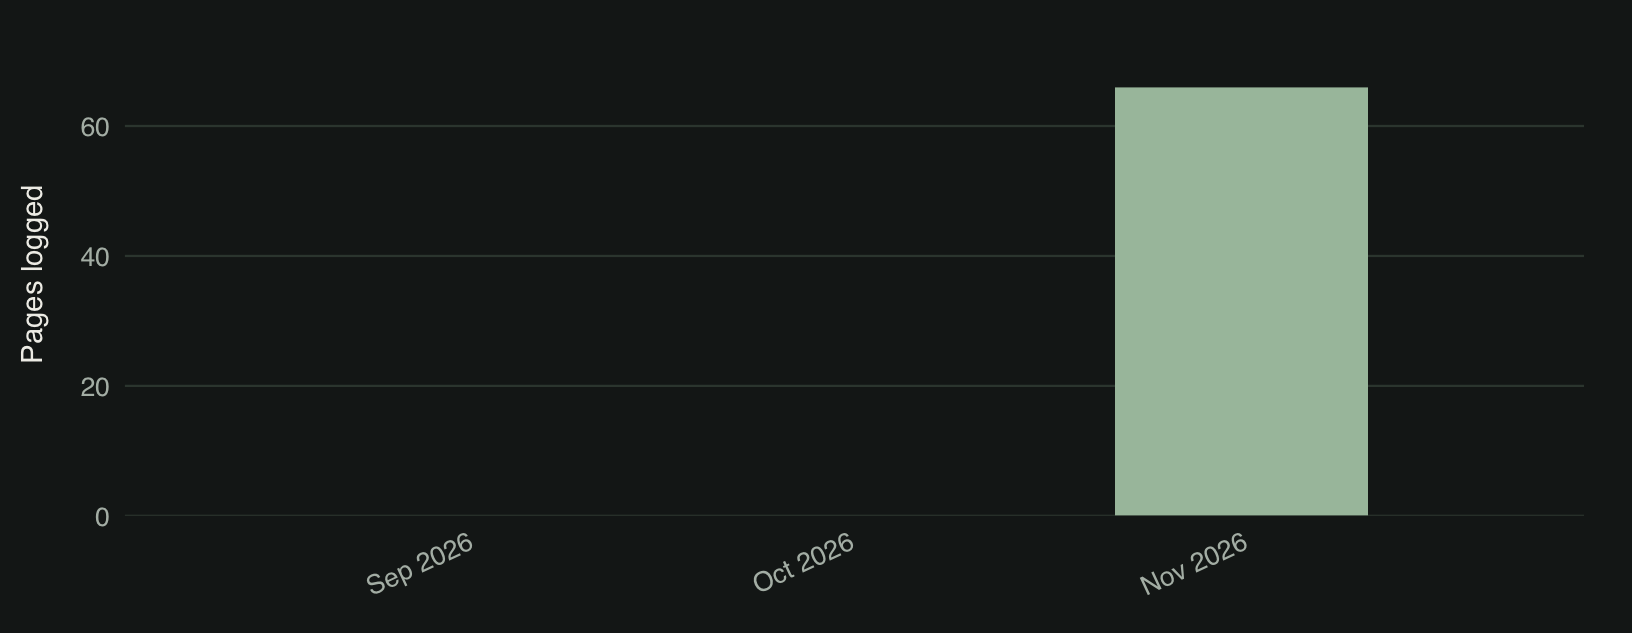
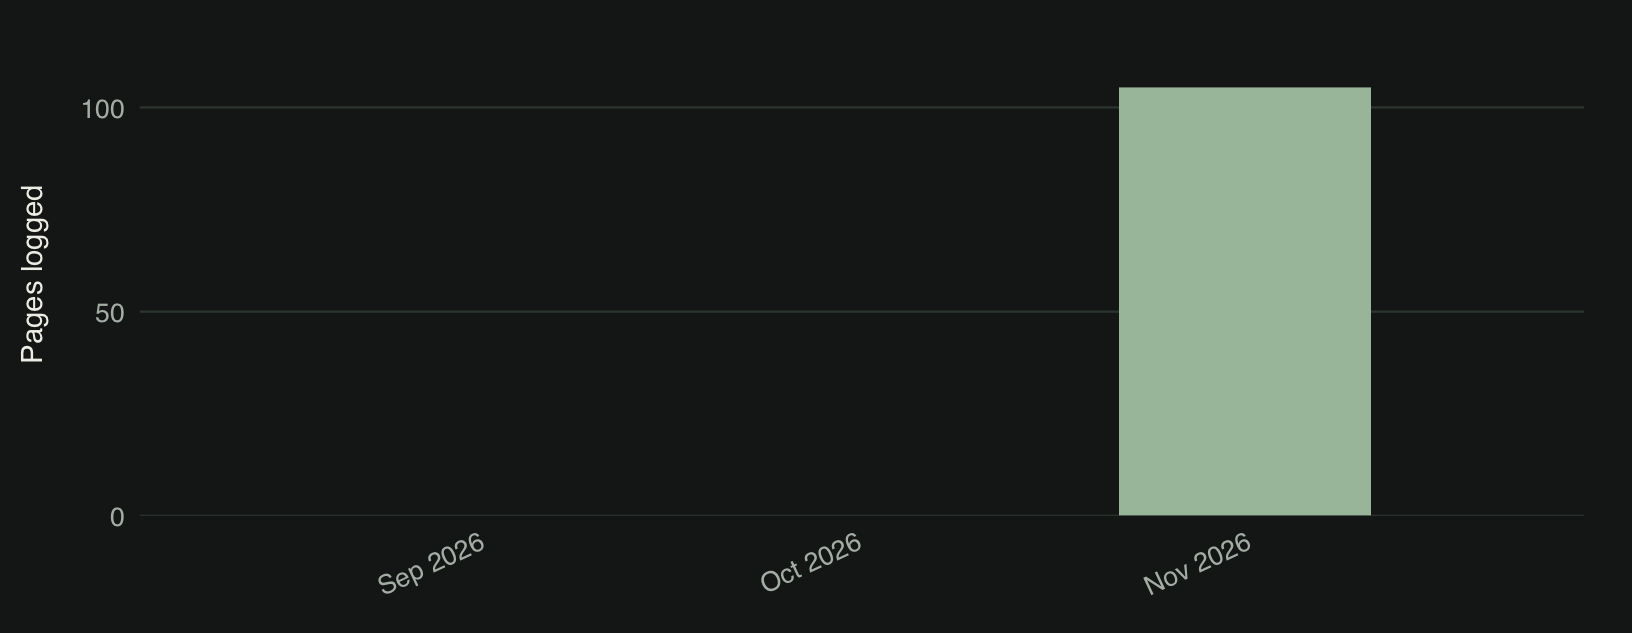
Built site for gh-pages

diff --git a/library.html b/library.html
@@ -339,8 +339,8 @@ ul.task-list li input[type="checkbox"] {
 <div class="library-page">
 <div class="cell">
 <div class="cell-output-display">
-<div class="datatables html-widget html-fill-item" id="htmlwidget-225f69845c2d07610bb4" style="width:100%;height:auto;"></div>
-<script type="application/json" data-for="htmlwidget-225f69845c2d07610bb4">{"x":{"filter":"none","vertical":false,"data":[["<a href=\"books/lavalee-des-avales.html\" class=\"library-book-link\">\n  <img src=\"https://covers.openlibrary.org/b/id/967591-M.jpg\" alt=\"Cover of L&#39;avalée des avalés\" class=\"library-cover\" loading=\"lazy\"/>\n  <span class=\"library-book-title\">L'avalée des avalés<\/span>\n<\/a>","<a href=\"books/volkswagen-blues.html\" class=\"library-book-link\">\n  <img src=\"https://covers.openlibrary.org/b/id/10820587-M.jpg\" alt=\"Cover of Volkswagen Blues\" class=\"library-cover\" loading=\"lazy\"/>\n  <span class=\"library-book-title\">Volkswagen Blues<\/span>\n<\/a>","<a href=\"books/B004.html\" class=\"library-book-link\">\n  <img src=\"https://covers.openlibrary.org/b/id/452472-M.jpg\" alt=\"Cover of The Argumentative Indian: Writings on Indian History, Culture and Identity\" class=\"library-cover\" loading=\"lazy\"/>\n  <span class=\"library-book-title\">The Argumentative Indian: Writings on Indian History, Culture and Identity<\/span>\n<\/a>","<a href=\"books/B003.html\" class=\"library-book-link\">\n  <img src=\"https://covers.openlibrary.org/b/id/6601656-M.jpg\" alt=\"Cover of Silence\" class=\"library-cover\" loading=\"lazy\"/>\n  <span class=\"library-book-title\">Silence<\/span>\n<\/a>"],["Réjean Ducharme","Jacques Poulin","Amartya Sen","Shūsaku Endō"],[343,221,432,256],["<span class=\"library-status library-status--reading\">Reading<\/span>","<span class=\"library-status library-status--finished\">Finished<\/span>","<span class=\"library-status library-status--finished\">Finished<\/span>","<span class=\"library-status library-status--finished\">Finished<\/span>"],["2026-11-19","2026-10-30","2026-09-26","2026-09-12"],["—","2026-11-18","2026-10-28","2026-09-25"]],"container":"<table class=\"hover\">\n  <thead>\n    <tr>\n      <th>Book<\/th>\n      <th>Author<\/th>\n      <th>Pages<\/th>\n      <th>Status<\/th>\n      <th>Date Started<\/th>\n      <th>Date Finished<\/th>\n    <\/tr>\n  <\/thead>\n<\/table>","options":{"pageLength":10,"lengthChange":false,"order":[],"autoWidth":false,"scrollX":true,"language":{"search":"Search books:","emptyTable":"No books recorded yet."},"columnDefs":[{"className":"dt-right","targets":2},{"name":"Book","targets":0},{"name":"Author","targets":1},{"name":"Pages","targets":2},{"name":"Status","targets":3},{"name":"Date Started","targets":4},{"name":"Date Finished","targets":5}],"orderClasses":false}},"evals":[],"jsHooks":[]}</script>
+<div class="datatables html-widget html-fill-item" id="htmlwidget-4500c34a9f6a281d1857" style="width:100%;height:auto;"></div>
+<script type="application/json" data-for="htmlwidget-4500c34a9f6a281d1857">{"x":{"filter":"none","vertical":false,"data":[["<a href=\"books/lavalee-des-avales.html\" class=\"library-book-link\">\n  <img src=\"https://covers.openlibrary.org/b/id/967591-M.jpg\" alt=\"Cover of L&#39;avalée des avalés\" class=\"library-cover\" loading=\"lazy\"/>\n  <span class=\"library-book-title\">L'avalée des avalés<\/span>\n<\/a>","<a href=\"books/volkswagen-blues.html\" class=\"library-book-link\">\n  <img src=\"https://covers.openlibrary.org/b/id/10820587-M.jpg\" alt=\"Cover of Volkswagen Blues\" class=\"library-cover\" loading=\"lazy\"/>\n  <span class=\"library-book-title\">Volkswagen Blues<\/span>\n<\/a>","<a href=\"books/B004.html\" class=\"library-book-link\">\n  <img src=\"https://covers.openlibrary.org/b/id/452472-M.jpg\" alt=\"Cover of The Argumentative Indian: Writings on Indian History, Culture and Identity\" class=\"library-cover\" loading=\"lazy\"/>\n  <span class=\"library-book-title\">The Argumentative Indian: Writings on Indian History, Culture and Identity<\/span>\n<\/a>","<a href=\"books/B003.html\" class=\"library-book-link\">\n  <img src=\"https://covers.openlibrary.org/b/id/6601656-M.jpg\" alt=\"Cover of Silence\" class=\"library-cover\" loading=\"lazy\"/>\n  <span class=\"library-book-title\">Silence<\/span>\n<\/a>"],["Réjean Ducharme","Jacques Poulin","Amartya Sen","Shūsaku Endō"],[343,221,432,256],["<span class=\"library-status library-status--reading\">Reading<\/span>","<span class=\"library-status library-status--finished\">Finished<\/span>","<span class=\"library-status library-status--finished\">Finished<\/span>","<span class=\"library-status library-status--finished\">Finished<\/span>"],["2026-11-19","2026-10-30","2026-09-26","2026-09-12"],["—","2026-11-18","2026-10-28","2026-09-25"]],"container":"<table class=\"hover\">\n  <thead>\n    <tr>\n      <th>Book<\/th>\n      <th>Author<\/th>\n      <th>Pages<\/th>\n      <th>Status<\/th>\n      <th>Date Started<\/th>\n      <th>Date Finished<\/th>\n    <\/tr>\n  <\/thead>\n<\/table>","options":{"pageLength":10,"lengthChange":false,"order":[],"autoWidth":false,"scrollX":true,"language":{"search":"Search books:","emptyTable":"No books recorded yet."},"columnDefs":[{"className":"dt-right","targets":2},{"name":"Book","targets":0},{"name":"Author","targets":1},{"name":"Pages","targets":2},{"name":"Status","targets":3},{"name":"Date Started","targets":4},{"name":"Date Finished","targets":5}],"orderClasses":false}},"evals":[],"jsHooks":[]}</script>
 </div>
 </div>
 </div>
@@ -351,8 +351,8 @@ ul.task-list li input[type="checkbox"] {
 <div class="library-page">
 <div class="cell">
 <div class="cell-output-display">
-<div class="datatables html-widget html-fill-item" id="htmlwidget-51805efac4a5c554355d" style="width:100%;height:auto;"></div>
-<script type="application/json" data-for="htmlwidget-51805efac4a5c554355d">{"x":{"filter":"none","vertical":false,"data":[["<div class=\"library-book-link\">\n  <img src=\"images/9780374608422.jpg.avif\" alt=\"Cover of Annihilation\" class=\"library-cover\" loading=\"lazy\"/>\n  <span class=\"library-book-title\">Annihilation<\/span>\n<\/div>","<div class=\"library-book-link\">\n  <img src=\"https://covers.openlibrary.org/b/id/5722548-M.jpg\" alt=\"Cover of Brooklyn\" class=\"library-cover\" loading=\"lazy\"/>\n  <span class=\"library-book-title\">Brooklyn<\/span>\n<\/div>","<div class=\"library-book-link\">\n  <img src=\"https://covers.openlibrary.org/b/id/12661723-M.jpg\" alt=\"Cover of Cry, the Beloved Country\" class=\"library-cover\" loading=\"lazy\"/>\n  <span class=\"library-book-title\">Cry, the Beloved Country<\/span>\n<\/div>","<div class=\"library-book-link\">\n  <img src=\"https://covers.openlibrary.org/b/id/10096955-M.jpg\" alt=\"Cover of The Cold Millions\" class=\"library-cover\" loading=\"lazy\"/>\n  <span class=\"library-book-title\">The Cold Millions<\/span>\n<\/div>","<div class=\"library-book-link\">\n  <img src=\"https://covers.openlibrary.org/b/id/156399-M.jpg\" alt=\"Cover of The Gay Place\" class=\"library-cover\" loading=\"lazy\"/>\n  <span class=\"library-book-title\">The Gay Place<\/span>\n<\/div>","<div class=\"library-book-link\">\n  <img src=\"https://covers.openlibrary.org/b/id/7401807-M.jpg\" alt=\"Cover of The Sailor Who Fell from Grace with the Sea\" class=\"library-cover\" loading=\"lazy\"/>\n  <span class=\"library-book-title\">The Sailor Who Fell from Grace with the Sea<\/span>\n<\/div>","<div class=\"library-book-link\">\n  <img src=\"https://covers.openlibrary.org/b/id/914747-M.jpg\" alt=\"Cover of What We Talk About When We Talk About Love\" class=\"library-cover\" loading=\"lazy\"/>\n  <span class=\"library-book-title\">What We Talk About When We Talk About Love<\/span>\n<\/div>"],["Michel Houellebecq","Colm Tóibín","Alan Paton","Jess Walter","Billy Lee Brammer","Yukio Mishima","Raymond Carver"]],"container":"<table class=\"hover\">\n  <thead>\n    <tr>\n      <th>Book<\/th>\n      <th>Author<\/th>\n    <\/tr>\n  <\/thead>\n<\/table>","options":{"pageLength":10,"lengthChange":false,"order":[],"autoWidth":false,"scrollX":true,"language":{"search":"Search wishlist:","emptyTable":"No books on the wishlist yet."},"columnDefs":[{"name":"Book","targets":0},{"name":"Author","targets":1}],"orderClasses":false}},"evals":[],"jsHooks":[]}</script>
+<div class="datatables html-widget html-fill-item" id="htmlwidget-960e20b060e6751eb98b" style="width:100%;height:auto;"></div>
+<script type="application/json" data-for="htmlwidget-960e20b060e6751eb98b">{"x":{"filter":"none","vertical":false,"data":[["<div class=\"library-book-link\">\n  <img src=\"images/9780374608422.jpg.avif\" alt=\"Cover of Annihilation\" class=\"library-cover\" loading=\"lazy\"/>\n  <span class=\"library-book-title\">Annihilation<\/span>\n<\/div>","<div class=\"library-book-link\">\n  <img src=\"https://covers.openlibrary.org/b/id/5722548-M.jpg\" alt=\"Cover of Brooklyn\" class=\"library-cover\" loading=\"lazy\"/>\n  <span class=\"library-book-title\">Brooklyn<\/span>\n<\/div>","<div class=\"library-book-link\">\n  <img src=\"https://covers.openlibrary.org/b/id/12661723-M.jpg\" alt=\"Cover of Cry, the Beloved Country\" class=\"library-cover\" loading=\"lazy\"/>\n  <span class=\"library-book-title\">Cry, the Beloved Country<\/span>\n<\/div>","<div class=\"library-book-link\">\n  <img src=\"https://covers.openlibrary.org/b/id/10096955-M.jpg\" alt=\"Cover of The Cold Millions\" class=\"library-cover\" loading=\"lazy\"/>\n  <span class=\"library-book-title\">The Cold Millions<\/span>\n<\/div>","<div class=\"library-book-link\">\n  <img src=\"https://covers.openlibrary.org/b/id/156399-M.jpg\" alt=\"Cover of The Gay Place\" class=\"library-cover\" loading=\"lazy\"/>\n  <span class=\"library-book-title\">The Gay Place<\/span>\n<\/div>","<div class=\"library-book-link\">\n  <img src=\"https://covers.openlibrary.org/b/id/7401807-M.jpg\" alt=\"Cover of The Sailor Who Fell from Grace with the Sea\" class=\"library-cover\" loading=\"lazy\"/>\n  <span class=\"library-book-title\">The Sailor Who Fell from Grace with the Sea<\/span>\n<\/div>","<div class=\"library-book-link\">\n  <img src=\"https://covers.openlibrary.org/b/id/914747-M.jpg\" alt=\"Cover of What We Talk About When We Talk About Love\" class=\"library-cover\" loading=\"lazy\"/>\n  <span class=\"library-book-title\">What We Talk About When We Talk About Love<\/span>\n<\/div>"],["Michel Houellebecq","Colm Tóibín","Alan Paton","Jess Walter","Billy Lee Brammer","Yukio Mishima","Raymond Carver"]],"container":"<table class=\"hover\">\n  <thead>\n    <tr>\n      <th>Book<\/th>\n      <th>Author<\/th>\n    <\/tr>\n  <\/thead>\n<\/table>","options":{"pageLength":10,"lengthChange":false,"order":[],"autoWidth":false,"scrollX":true,"language":{"search":"Search wishlist:","emptyTable":"No books on the wishlist yet."},"columnDefs":[{"name":"Book","targets":0},{"name":"Author","targets":1}],"orderClasses":false}},"evals":[],"jsHooks":[]}</script>
 </div>
 </div>
 </div>

diff --git a/pages.html b/pages.html
@@ -338,8 +338,8 @@ ul.task-list li input[type="checkbox"] {
 <div class="reading-log-page">
 <div class="cell">
 <div class="cell-output-display">
-<div class="datatables html-widget html-fill-item" id="htmlwidget-21c728eb74c9a94e17a5" style="width:100%;height:auto;"></div>
-<script type="application/json" data-for="htmlwidget-21c728eb74c9a94e17a5">{"x":{"filter":"none","vertical":false,"data":[["2026-11-21","2026-11-20","2026-11-19"],["<a href=\"books/lavalee-des-avales.html\" class=\"log-book-link\">L'avalée des avalés<\/a>","<span class=\"log-unrecorded\">No entry recorded<\/span>","<a href=\"books/lavalee-des-avales.html\" class=\"log-book-link\">L'avalée des avalés<\/a>"],[32,null,34],[66,null,34]],"container":"<table class=\"hover\">\n  <thead>\n    <tr>\n      <th>Date<\/th>\n      <th>Book<\/th>\n      <th>Pages Read<\/th>\n      <th>Page Reached<\/th>\n    <\/tr>\n  <\/thead>\n<\/table>","options":{"pageLength":15,"lengthChange":false,"searching":true,"ordering":true,"order":[[0,"desc"]],"autoWidth":false,"scrollX":true,"language":{"search":"Search log:","emptyTable":"No reading entries yet."},"columnDefs":[{"className":"dt-right","targets":[2,3]},{"name":"Date","targets":0},{"name":"Book","targets":1},{"name":"Pages Read","targets":2},{"name":"Page Reached","targets":3}],"orderClasses":false}},"evals":[],"jsHooks":[]}</script>
+<div class="datatables html-widget html-fill-item" id="htmlwidget-dec7888290948d882bff" style="width:100%;height:auto;"></div>
+<script type="application/json" data-for="htmlwidget-dec7888290948d882bff">{"x":{"filter":"none","vertical":false,"data":[["2026-11-22","2026-11-21","2026-11-20","2026-11-19"],["<a href=\"books/lavalee-des-avales.html\" class=\"log-book-link\">L'avalée des avalés<\/a>","<a href=\"books/lavalee-des-avales.html\" class=\"log-book-link\">L'avalée des avalés<\/a>","<span class=\"log-unrecorded\">No entry recorded<\/span>","<a href=\"books/lavalee-des-avales.html\" class=\"log-book-link\">L'avalée des avalés<\/a>"],[39,32,null,34],[105,66,null,34]],"container":"<table class=\"hover\">\n  <thead>\n    <tr>\n      <th>Date<\/th>\n      <th>Book<\/th>\n      <th>Pages Read<\/th>\n      <th>Page Reached<\/th>\n    <\/tr>\n  <\/thead>\n<\/table>","options":{"pageLength":15,"lengthChange":false,"searching":true,"ordering":true,"order":[[0,"desc"]],"autoWidth":false,"scrollX":true,"language":{"search":"Search log:","emptyTable":"No reading entries yet."},"columnDefs":[{"className":"dt-right","targets":[2,3]},{"name":"Date","targets":0},{"name":"Book","targets":1},{"name":"Pages Read","targets":2},{"name":"Page Reached","targets":3}],"orderClasses":false}},"evals":[],"jsHooks":[]}</script>
 </div>
 </div>
 </div>

diff --git a/statistics.html b/statistics.html
@@ -338,7 +338,7 @@ ul.task-list li input[type="checkbox"] {
 <p>Pages in completed books</p>
 </section>
 <section id="section-3" class="level3 stats-summary-card">
-<h3 class="anchored" data-anchor-id="section-3">66</h3>
+<h3 class="anchored" data-anchor-id="section-3">105</h3>
 <p>Pages logged by date</p>
 </section>
 </div>
@@ -347,15 +347,15 @@ ul.task-list li input[type="checkbox"] {
 <h2 class="anchored" data-anchor-id="reading-habits">Reading Habits</h2>
 <div class="stats-average-grid">
 <section id="section-4" class="level3 stats-average-card">
-<h3 class="anchored" data-anchor-id="section-4">2</h3>
+<h3 class="anchored" data-anchor-id="section-4">3</h3>
 <p>Days with logged reading</p>
 </section>
 <section id="section-5" class="level3 stats-average-card">
-<h3 class="anchored" data-anchor-id="section-5">22</h3>
+<h3 class="anchored" data-anchor-id="section-5">26.2</h3>
 <p>Avg. pages per calendar day</p>
 </section>
 <section id="section-6" class="level3 stats-average-card">
-<h3 class="anchored" data-anchor-id="section-6">33</h3>
+<h3 class="anchored" data-anchor-id="section-6">35</h3>
 <p>Avg. pages per reading day</p>
 </section>
 </div>

diff --git a/index.html b/index.html
@@ -335,7 +335,7 @@ ul.task-list li input[type="checkbox"] {
 <p>Books completed</p>
 </section>
 <section id="section-2" class="level3 reading-stat">
-<h3 class="anchored" data-anchor-id="section-2">66</h3>
+<h3 class="anchored" data-anchor-id="section-2">105</h3>
 <p>Pages logged</p>
 </section>
 </div>
@@ -358,10 +358,10 @@ ul.task-list li input[type="checkbox"] {
 </h3>
 <p class="book-card-author">Réjean Ducharme</p>
 <div class="book-progress">
-<div class="book-progress-track" role="progressbar" aria-label="Reading progress for L'avalée des avalés" aria-valuenow="19.2" aria-valuemin="0" aria-valuemax="100">
-<div class="book-progress-fill" style="width: 19.2%;"></div>
+<div class="book-progress-track" role="progressbar" aria-label="Reading progress for L'avalée des avalés" aria-valuenow="30.6" aria-valuemin="0" aria-valuemax="100">
+<div class="book-progress-fill" style="width: 30.6%;"></div>
 </div>
-<p class="book-progress-label">Page 66 of 343 · 19.2%</p>
+<p class="book-progress-label">Page 105 of 343 · 30.6%</p>
 </div>
 </div>
 </article>

diff --git a/books/lavalee-des-avales.html b/books/lavalee-des-avales.html
@@ -347,11 +347,11 @@ ul.task-list li input[type="checkbox"] {
 </div>
 <div class="book-detail-field">
 <dt>Last recorded page</dt>
-<dd>66</dd>
+<dd>105</dd>
 </div>
 <div class="book-detail-field">
 <dt>Reading progress</dt>
-<dd>19.2%</dd>
+<dd>30.6%</dd>
 </div>
 </dl>
 </div>
@@ -385,6 +385,11 @@ ul.task-list li input[type="checkbox"] {
 <td style="text-align: left;">2026-11-21</td>
 <td style="text-align: right;">32</td>
 <td style="text-align: right;">66</td>
+</tr>
+<tr class="odd">
+<td style="text-align: left;">2026-11-22</td>
+<td style="text-align: right;">39</td>
+<td style="text-align: right;">105</td>
 </tr>
 </tbody>
 </table>
